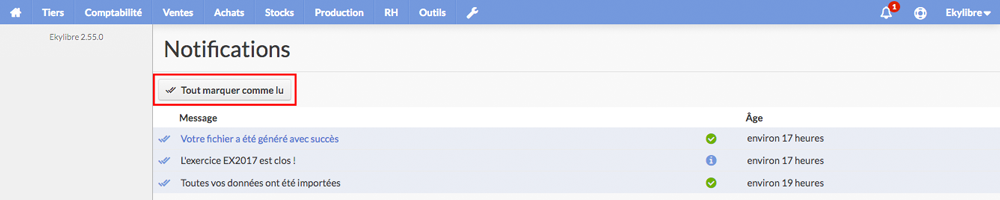
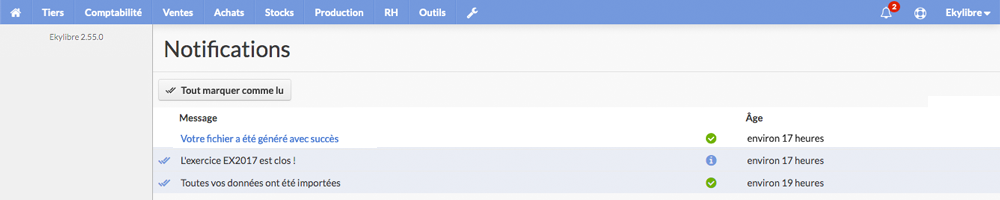
Révision Notifications + new PDF

diff --git a/content/fr/chapitre4.html b/content/fr/chapitre4.html
@@ -467,13 +467,13 @@
       <p class="texte">Exemple de notification&nbsp;:</p>
       <p class="texte"><img src="../images/chapitre4/notif-navigateur2.png" class="contour-img" alt="Notifications navigateur" data-action="zoom" /></p>
       <p class="texte aerateur-haut">En parallèle, Ekylibre dispose de son propre système de notification. Il consigne, dans l'ordre chronologique, l'ensemble des opérations internes réalisées par l'application. Il permet également de consulter l'historique complet de ces opérations en indiquant depuis combien de temps elles ont été effectuées.</p>
-      <p class="texte">Les notifications vous informent notamment de l'échec ou de la réussite d'une opération interne comme par exemple l'import de données, la génération d'un document ou la clôture d'un exercice comptable.<br />La cloche<img src="../images/chapitre4/bell-o-blue.svg" alt="cloche bleue" height="20" class="align-icone icone-marge-gauche icone-marge-droite">située dans le "Menu utilisateur" est alors adjointe d'une pastille de couleur rouge<img src="../images/commun/marker.svg" alt="Notification" height="20" class="align-icone icone-marge-gauche icone-marge-droite">avec le nombre de notifications non lues générées par l'application.</p>
+      <p class="texte">Les notifications vous informent notamment de l'échec ou de la réussite d'une opération interne comme par exemple l'import de données, la génération d'un document ou la clôture d'un exercice comptable.<br />La cloche<img src="../images/chapitre4/bell-o-blue.svg" alt="cloche bleue" height="20" class="align-icone icone-marge-gauche icone-marge-droite">située dans le "Menu utilisateur" est alors adjointe d'une pastille de couleur rouge<img src="../images/commun/marker.svg" alt="Notification" height="20" class="align-icone icone-marge-gauche icone-marge-droite">avec le nombre de nouvelles notifications "non lues" générées par l'application.</p>
       <p align="center" class="texte"><img src="../images/chapitre4/schema-cloche.svg" alt="Schéma notification" height="30" class="bouton"></p>
-      <p class="texte">Cliquez sur la cloche pour afficher la ou les nouvelle&#40;s&#41; notification&#40;s&#41; sous le "Menu utilisateur".</p>
+      <p class="texte aerateur-haut">Cliquez sur la cloche pour afficher la ou les nouvelle&#40;s&#41; notification&#40;s&#41; sous le "Menu utilisateur".</p>
       <p class="texte"><img src="../images/chapitre4/notification1.png" class="contour-img" alt="Notification" data-action="zoom" /></p>
       <p class="texte aerateur-bas">Notez qu'en cliquant sur la cloche, seules les notifications dont vous êtes à l'origine sont listées, alors qu'en sélectionnant "Gérer les notifications", les notifications générées par tous les utilisateurs &#40;d'autres personnes ayant accès à votre ferme, voir le <a href="../chapitre10" class="avoid-clicks" target="_self">chapitre 10 - Accès</a>&#41; sont affichées.</p>
       <p class="texte"><img src="../images/chapitre4/notification2.png" class="contour-img" alt="Notification" data-action="zoom" /></p>
-      <p class="texte aerateur-bas">Cliquez sur le lien "Gérer les notifications" pour afficher toutes les notifications conservées dans l'historique de votre ferme.</p>
+      <p class="texte aerateur-bas">Cliquez sur le lien "Gérer les notifications" pour consulter une ou plusieurs notification&#40;s&#41; en attente de validation et afficher toutes celles qui sont archivées dans l'historique de votre ferme.</p>
       <p class="texte"><img src="../images/chapitre4/notification3.png" class="contour-img" alt="Notification" data-action="zoom" /></p>
       <p class="texte">La présence du symbole<img src="../images/chapitre4/check-all.svg" alt="Double check" height="15" class="icone-marge-gauche icone-marge-droite">devant une notification signale que vous n'avez pas encore validé la lecture de celle-ci.</p>
       <p class="texte aerateur-haut">Chaque notification est un message assorti d'un indicateur en couleur selon sa nature. Dans certains cas, la notification est également un lien pour accéder directement à un document ou à un module en rapport avec l'opération réalisée.</p>
@@ -481,12 +481,14 @@
       <p class="texte"><img src="../images/chapitre4/info-circle.svg" alt="Statut orange" height="20" class="align-icone icone-marge-droite">signale une information.</p>
       <p class="texte"><img src="../images/chapitre4/exclamation-circle.svg" alt="Statut rouge" height="20" class="align-icone icone-marge-droite">signale un avertissement.</p>
       <p class="texte"><img src="../images/chapitre4/close-circle.svg" alt="Statut rouge" height="20" class="align-icone icone-marge-droite">signale une opération en échec.</p>
-	  <p class="texte aerateur-haut"><img src="../images/chapitre4/notification4.png" class="contour-img" alt="Notification" data-action="zoom" /></p>
-	  <p class="texte aerateur-bas">Une fois que vous avez pris connaissance d'une notification, cliquez sur le symbole<img src="../images/chapitre4/check-all.svg" alt="Double check" height="15" class="icone-marge-gauche icone-marge-droite">à gauche de son libellé pour la définir comme consultée. Le symbole<img src="../images/chapitre4/check-all.svg" alt="Double check" height="15" class="icone-marge-gauche icone-marge-droite">disparaît alors immédiatement.</p>
+	  <p class="texte aerateur-haut">Une fois que vous avez pris connaissance d'une notification, cliquez sur le symbole<img src="../images/chapitre4/check-all.svg" alt="Double check" height="15" class="icone-marge-gauche icone-marge-droite">à gauche de son libellé pour la définir comme consultée.</p>
+	  <p class="texte"><img src="../images/chapitre4/notification4.png" class="contour-img" alt="Notification" data-action="zoom" /></p>
+	  <p class="texte">Le symbole<img src="../images/chapitre4/check-all.svg" alt="Double check" height="15" class="icone-marge-gauche icone-marge-droite">disparaît alors immédiatement et si plusieurs notifications sont en attente de validation, le chiffre dans la pastille rouge est décrémenté d'une unité.</p>
 	  <p class="texte"><img src="../images/chapitre4/notification5.png" class="contour-img" alt="Notification" data-action="zoom" /></p>
-      <p class="texte">Pour valider simultanément toutes les notifications affichées avec le statut "non lue", cliquez sur le bouton&nbsp;:</p>
-      <p class="texte" align="center"><img src="../images/chapitre4/marquer.svg" alt="Tout marquer comme lu" height="30"></p>
+	  <p class="texte aerateur-haut">Pour confirmer simultanément la lecture de toutes les notifications en attente de validation, cliquez sur le bouton "Tout marquer comme lu".</p>
+	  <p class="texte"><img src="../images/chapitre4/notification6.png" class="contour-img" alt="Notification" data-action="zoom" /></p>
       <p class="texte">Tous les symboles<img src="../images/chapitre4/check-all.svg" alt="Double check" height="15" class="icone-marge-gauche icone-marge-droite">devant les notifications en attente de validation disparaissent, ainsi que la pastille rouge à droite de la cloche dans le "Menu utilisateur", jusqu'à la génération d'une nouvelle notification.</p>
+	  <p class="texte">Notez que si vous avez supprimé un document dans les archives de la "Gestion électronique des documents", le lien proposé par la notification pour accéder à ce fichier n'est plus valide.</p>
       <p class="aerateur-haut"><span class="titre-advice texte">Messages</span></p>
       <p class="texte">Affichés temporairement dans la fenêtre principale après la validation de certaines opérations, des messages vous informeront régulièrement de l'avancée de certaines tâches. Ils vous préviendront également si une erreur est intervenue, si une manipulation incomplète ou incorrecte a été détectée, ou si un préalable doit être porté à votre attention afin d'utiliser correctement l'application.</p>
       <p class="texte">Cliquez sur le symbole<img src="../images/commun/times2.svg" alt="Supprimer" height="15" class="icone-marge-gauche icone-marge-droite">à droite du message pour le supprimer immédiatement le cas échéant.</p>

diff --git a/content/fr/chapitre3.html b/content/fr/chapitre3.html
@@ -456,8 +456,7 @@
          <img src="../images/chapitre3/barre-progression1.png" class="contour-img" alt="Barre de progression">
       </p>
       <p class="texte">
-         Si vous avez intégré la déclaration TelePAC et que vous n'avez pas besoin d'ajouter de nouvelles zones cultivables, vous pouvez passer directement à la 
-         <a href="#batiments" class="avoid-clicks">section c</a> &#40;&#171; Création des bâtiments et des zones de stockage &#187;&#41; de ce chapitre.
+         Si vous avez intégré la déclaration TelePAC et que vous n'avez pas besoin d'ajouter de nouvelles zones cultivables, vous pouvez passer directement à la section <a href="#batiments" class="avoid-clicks">«&nbsp;Création des bâtiments et des zones de stockage&nbsp;»</a> de ce chapitre.
       </p>
       <p class="texte">
          Sinon, vous pouvez créer vos zones cultivables de deux manières différentes&nbsp;:
@@ -1310,7 +1309,7 @@
          Le découpage des bâtiments permet de générer les subdivisions d'un bâtiment ou d'une zone de stockage. Cette étape est indispensable pour réaliser les approvisionnements et gérer les emplacements de tous les éléments stockés &#40;intrants, produits de récolte, équipements&#41; en vue des inventaires. Notez qu'une découpe de bâtiment peut couvrir la surface totale d'un bâtiment et dans ce cas, il n'est pas nécessaire de la redessiner.
       </p>
       <p class="texte">
-         L'interface pour découper les bâtiments et les zones de stockage est strictement identique à celle utilisée pour dessiner les bâtiments dans la <a href="#batiments" class="avoid-clicks">section c </a>&#40;&#171; Création des bâtiments à la main &#187;&#41;. 
+         L'interface pour découper les bâtiments et les zones de stockage est strictement identique à celle utilisée pour dessiner les bâtiments dans la section <a href="#batiments" class="avoid-clicks">«&nbsp;Création des bâtiments et des zones de stockage&nbsp;»</a>. 
       </p>
       <p class="texte">
          De préférence sur ordinateur pour bénéficier de la précision de la souris &#40;il est difficile voire impossible de dessiner avec les doigts&#41;, commencez le dessin de vos découpes de bâtiment.

diff --git a/content/fr/demarrage.html b/content/fr/demarrage.html
@@ -14,7 +14,7 @@
       <h3 align="center" class="texte"><img class="logo" src="../images/commun/logo-ekylibre.svg" alt="Ekylibre" width="300"><br />Logiciel de gestion d'exploitation agricole</h3>
       <p align="center" class="aerateur-haut aerateur-bas"><img src="../images/accueil/introduction.png" alt="Gestion d'exploitation agricole" class="loading"></p>
       <h1 align="center" class="texte majuscule aerateur">Guide de prise en main</h1>
-      <p class="texte">Ce guide a pour but d'aider le nouvel utilisateur à configurer rapidement et correctement l'application pour son exploitation agricole et de commencer à l'utiliser. Ce guide a été mis à jour le 24 juin 2020. La version au format PDF est datée du 24 juin 2020.</p>
+      <p class="texte">Ce guide a pour but d'aider le nouvel utilisateur à configurer rapidement et correctement l'application pour son exploitation agricole et de commencer à l'utiliser. Ce guide a été mis à jour le 25 juin 2020. La version au format PDF est datée du 25 juin 2020.</p>
       <div class="pdf">
          <p class="texte">Pour naviguer entre les différents chapitres, utilisez le menu symbolisé par l'icône<img src="../images/accueil/navicon.svg" alt="Menu" height="20" class="align-icone icone-marge-gauche icone-marge-droite">en haut à gauche des pages. Des liens sont également disponibles dans l'en-tête des pages &#40;uniquement sur les écrans dont la résolution est de 768 pixels minimum&#41; ainsi qu'à la fin de chaque chapitre.</p>
          <p class="texte">Le fil d'ariane situé en haut de la page affiche le nom de la section de la documentation que vous êtes en train de lire pour mieux vous repérez dans un chapitre &#40;uniquement sur les écrans dont la résolution est de 768 pixels minimum&#41;.</p>
